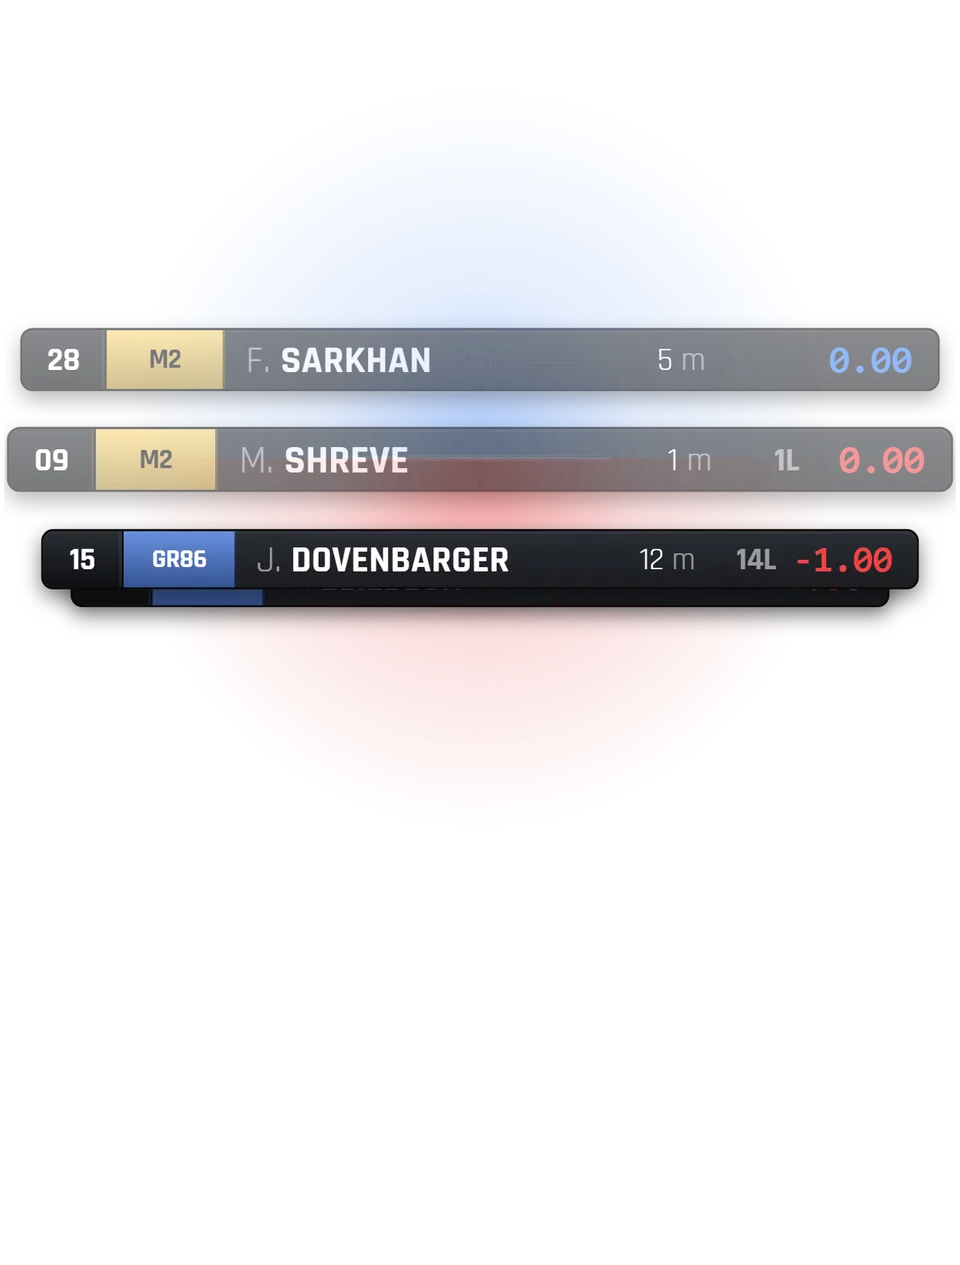
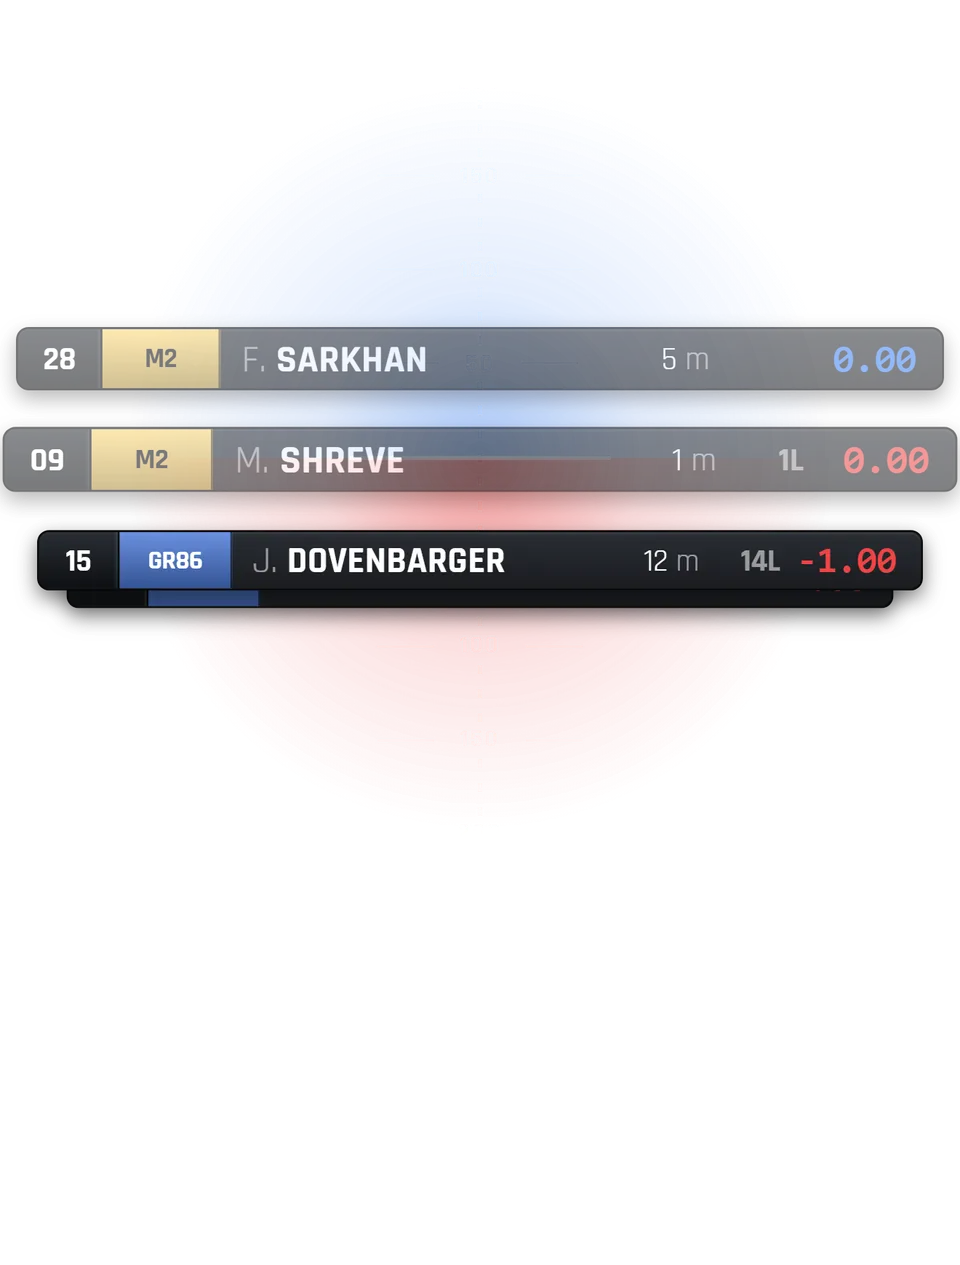
refactor(storybook): state transparent widget frames in the stories, not in capture options

diff --git a/src/ui/widgets/GMeterWidget/GMeterWidget.stories.tsx b/src/ui/widgets/GMeterWidget/GMeterWidget.stories.tsx
@@ -29,7 +29,12 @@ const meta: Meta<StoryArgs> = {
   title: 'Widgets/GMeter',
   ...defineWidgetStories<StoryArgs>({
     widget: GMeterWidget,
-    size: { width: 240, height: 240, background: 'rgba(21, 22, 26, 0.8)' },
+    size: {
+      width: 240,
+      height: 240,
+      background: 'transparent',
+      border: 'none',
+    },
     seed: (store, args) => {
       if (args.latG !== undefined || args.longG !== undefined) {
         store.player.updateCarDynamics(
@@ -93,6 +98,10 @@ const replayCorner = (store: RootStore): void => {
 
 /** A corner's worth of load already on the dial, as on the site. */
 export const Showcase: Story = {
+  args: {
+    scale: 2,
+  },
+
   decorators: [withReplay(replayCorner)],
 };
 

diff --git a/src/ui/widgets/LedFlagWidget/LedFlagWidget.stories.tsx b/src/ui/widgets/LedFlagWidget/LedFlagWidget.stories.tsx
@@ -32,7 +32,12 @@ const meta: Meta<StoryArgs> = {
   title: 'Widgets/LedFlagWidget',
   ...defineWidgetStories<StoryArgs>({
     widget: LedFlagWidget,
-    size: { width: DESIGN_SIZE, height: DESIGN_SIZE, background: '#111' },
+    size: {
+      width: DESIGN_SIZE,
+      height: DESIGN_SIZE,
+      background: 'transparent',
+      border: 'none',
+    },
     seed: (store, args) => {
       store.liveWidgets.updateUserSettings('led-flags', {
         ...store.liveWidgets.getSettings<FlagDisplaySettings>('led-flags'),

diff --git a/src/ui/widgets/DeltaWidget/DeltaWidget.stories.tsx b/src/ui/widgets/DeltaWidget/DeltaWidget.stories.tsx
@@ -23,7 +23,12 @@ const meta: Meta<StoryArgs> = {
   title: 'Widgets/DeltaWidget',
   ...defineWidgetStories<StoryArgs>({
     widget: DeltaWidget,
-    size: { width: 200, height: 100 },
+    size: {
+      width: 200,
+      height: 100,
+      background: 'transparent',
+      border: 'none',
+    },
     seed: (store, args) => {
       store.liveWidgets.updateUserSettings('delta', {
         ...store.liveWidgets.getSettings<DeltaWidgetSettings>('delta'),

diff --git a/src/ui/widgets/CloseBattleWidget/CloseBattleWidget.stories.tsx b/src/ui/widgets/CloseBattleWidget/CloseBattleWidget.stories.tsx
@@ -56,7 +56,12 @@ const meta: Meta<StoryArgs> = {
   title: 'Widgets/CloseBattleWidget',
   ...defineWidgetStories<StoryArgs>({
     widget: CloseBattleWidget,
-    size: { width: 440, height: 420, background: '#0e0f12' },
+    size: {
+      width: 440,
+      height: 420,
+      background: 'transparent',
+      border: 'none',
+    },
     seedSnapshot: true,
     seed: (store, args) => {
       const settings: Partial<CloseBattleWidgetSettings> = {

diff --git a/src/ui/widgets/TrackMapWidget/TrackMapWidget.stories.tsx b/src/ui/widgets/TrackMapWidget/TrackMapWidget.stories.tsx
@@ -75,7 +75,12 @@ const meta: Meta<StoryArgs> = {
   title: 'Widgets/TrackMapWidget',
   ...defineWidgetStories<StoryArgs>({
     widget: TrackMapView,
-    size: { width: DESIGN_SIZE, height: DESIGN_SIZE },
+    size: {
+      width: DESIGN_SIZE,
+      height: DESIGN_SIZE,
+      background: 'transparent',
+      border: 'none',
+    },
     seedSnapshot: true,
     seed: (store, args) => {
       seedField(store);
